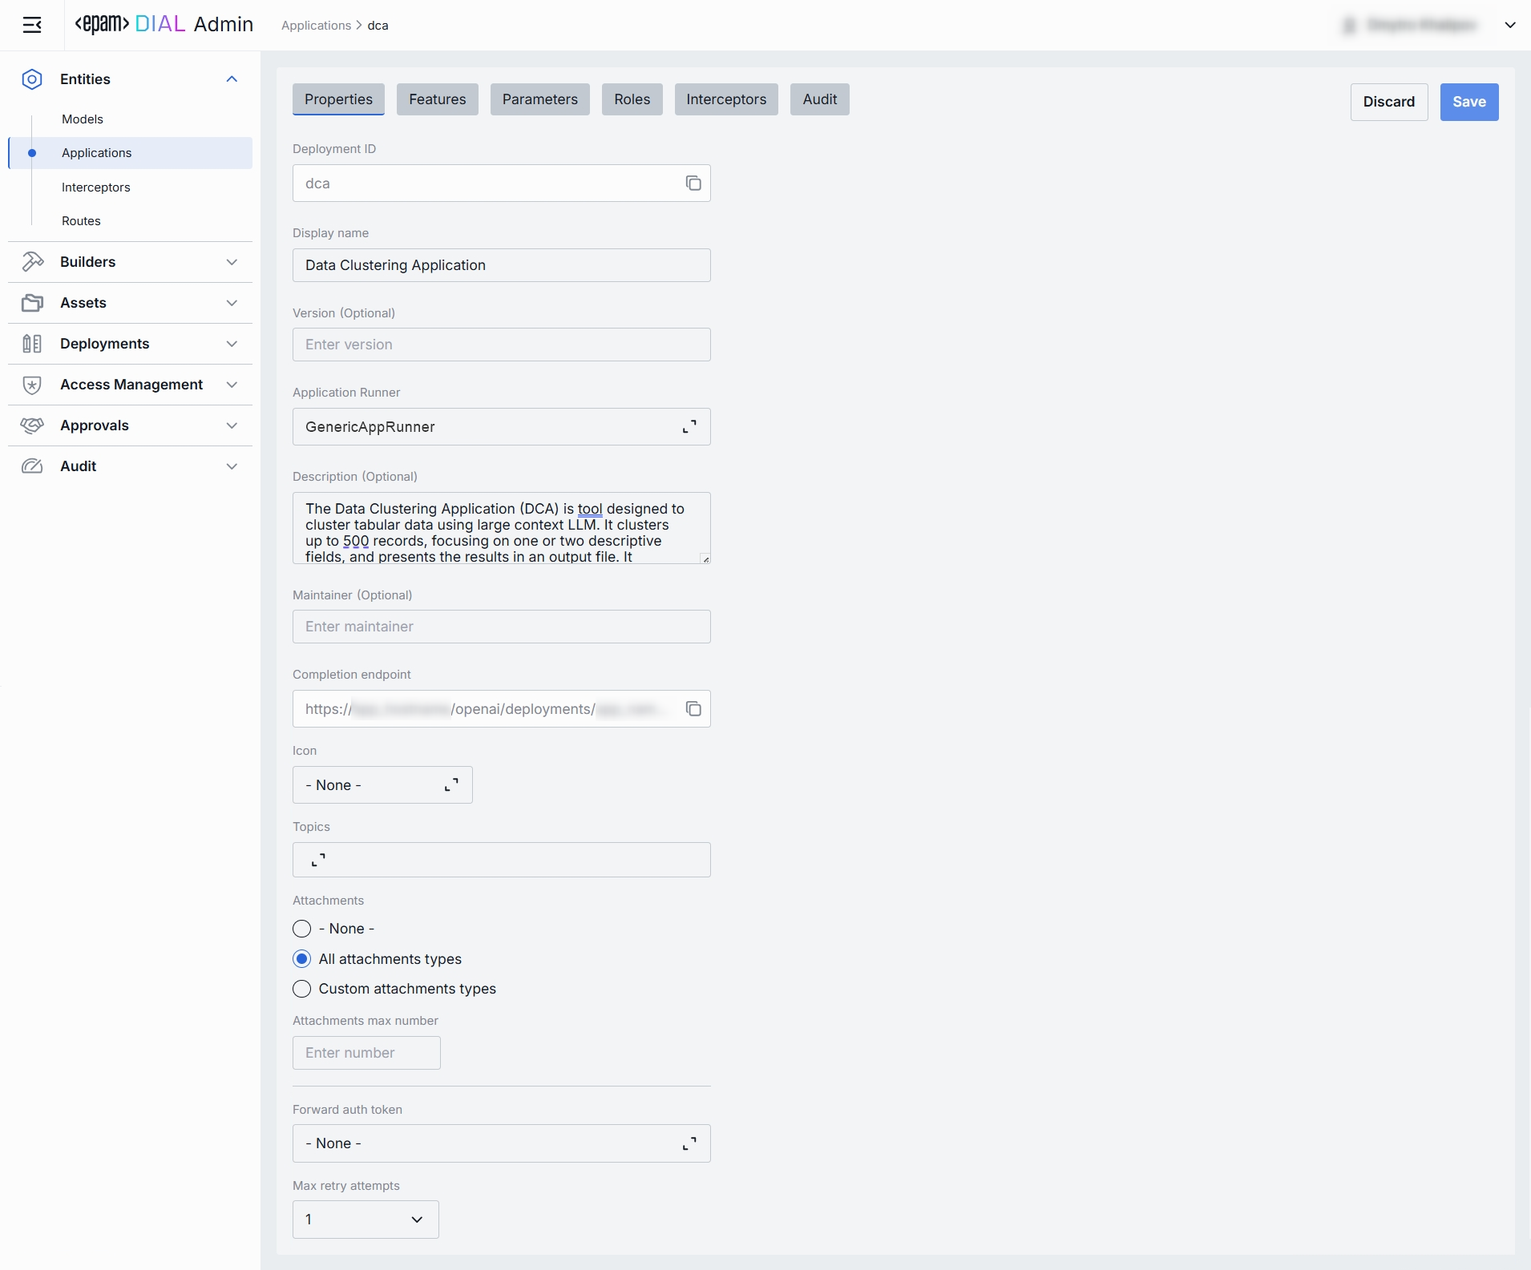
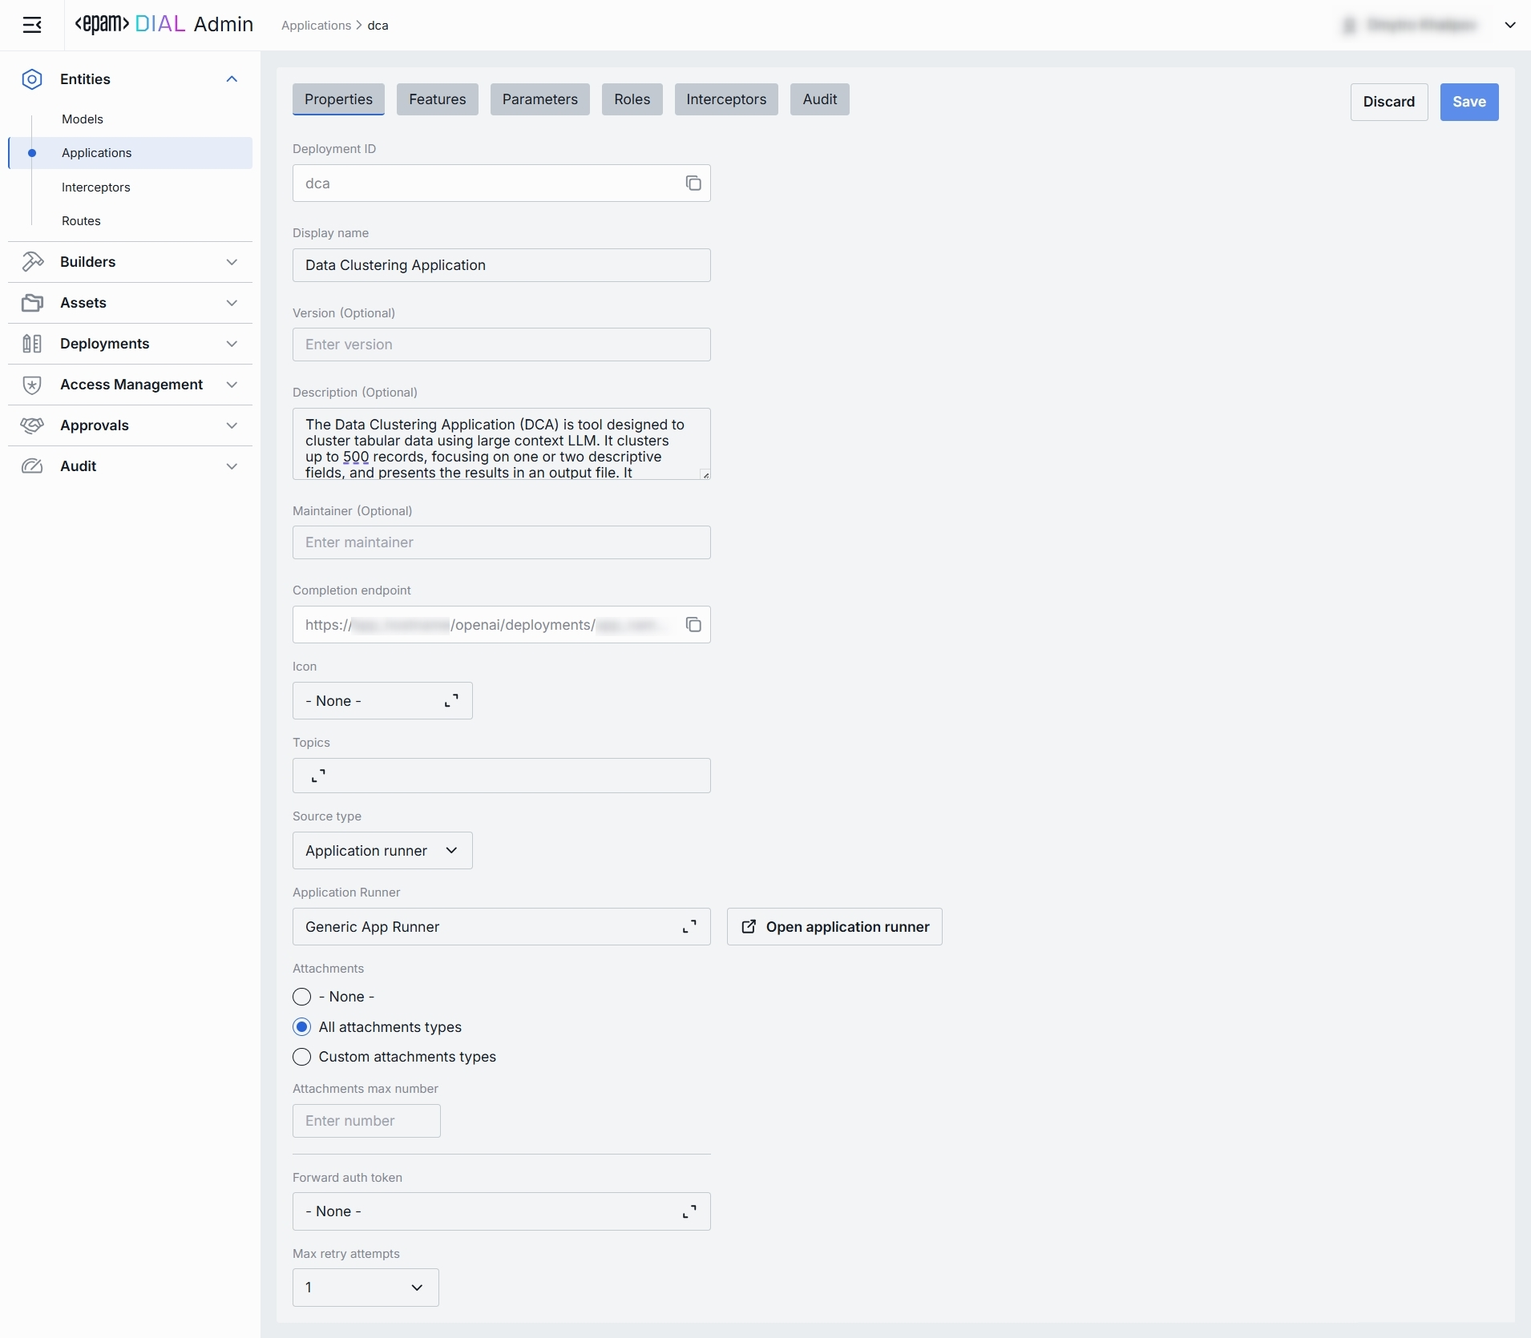
Chore: Source Type and related fields extension in Applications.

diff --git a/docs/tutorials/3.admin/entities-applications.md b/docs/tutorials/3.admin/entities-applications.md
@@ -33,18 +33,19 @@ In Applications, you can see, create and manage applications deployed in your in
 1. Click **+ Create** to invoke the **Create Application** modal.
 2. Define application's parameters
 
-    | Field                  | Required       | Definition & Guidance|
-    |------------------------|-----------------|------------------------------------|
-    | **Deployment ID**      | Yes         | A unique identifier under the `applications` section of DIAL Core’s [dynamic settings](https://github.com/epam/ai-dial-core?tab=readme-ov-file#dynamic-settings) (e.g. support-bot, data-cluster).                    |
-    | **Display Name**       | Yes         | A user-friendly label (e.g. "Customer Support Bot") shown throughout the Admin UI.       |
-    | **Version**            | No              | An optional version tag to track apps releases (e.g. `2024-07-18`, `v1`).     |
-    | **Application Runner** | No              | [Application type schema](/docs/platform/3.core/7.apps.md#schema-rich-applications). Defined in [Application Runners](/docs/tutorials/3.admin/builders-application-runners.md). |
-    | **Description**        | No              | A free-text summary describing the application (e.g. supported inputs, business purpose).                       |
-    | **Endpoint**           | Conditional | The full URL where this Application’s API will be exposed once created. Not needed if Application Runner is selected. Required otherwise.|
+| Field                    | Required    | Definition & Guidance                                                                                                                                                                                                                                                                                               |
+|--------------------------|-------------|---------------------------------------------------------------------------------------------------------------------------------------------------------------------------------------------------------------------------------------------------------------------------------------------------------------------|
+| **Deployment ID**        | Yes         | A unique identifier under the `applications` section of DIAL Core’s [dynamic settings](https://github.com/epam/ai-dial-core?tab=readme-ov-file#dynamic-settings) (e.g. support-bot, data-cluster).                                                                                                                  |
+| **Display Name**         | Yes         | A user-friendly label (e.g. "Customer Support Bot") shown throughout the Admin UI.                                                                                                                                                                                                                                  |
+| **Version**              | No          | An optional version tag to track apps releases (e.g. `2024-07-18`, `v1`).                                                                                                                                                                                                                                           |
+| **Source Type**          | Yes         | Field lets the user choose between “Endpoint” and “Application runner” options.                                                                                                                                                                                                                                     |
+| **Application Runner**   | Conditional | Field is shown and required only if Source Type is "Application runner". Allows to select existing [Application type schema](/docs/platform/3.core/7.apps.md#schema-rich-applications) as the basis for the application. Defined in [Application Runners](/docs/tutorials/3.admin/builders-application-runners.md). |
+| **Completion endpoint**  | Conditional | Field is shown and required only if Source Type is "Endpoint". The full URL where this Application’s API will be exposed once created.                                                                                                                                                                              |
+| **Description**          | No          | A free-text summary describing the application (e.g. supported inputs, business purpose).                                                                                                                                                                                                                           |
 
 3. Once all required fields are filled click **Create**. The dialog closes and the new [application configuration](#application-configuration) screen is opened. This entry will appear immediately in the listing once created. It may take some time for the changes to take effect after saving.
 
-        ![](img/img_12.png)
+![](img/img_12.png)
 
 ## Application Configuration
 
@@ -61,20 +62,23 @@ Once configured, your application is ready to orchestrate models and interceptor
 
 ![ ](img/img_13.png)
 
-| Field                   | Required | Description                                                                                                                                                                                                                                                                                                                                                                                                                                                                                                          |
-|-------------------------|----------|----------------------------------------------------------------------------------------------------------------------------------------------------------------------------------------------------------------------------------------------------------------------------------------------------------------------------------------------------------------------------------------------------------------------------------------------------------------------------------------------------------------------|
-| **Deployment ID**       | Yes      | A unique key under `applications` in DIAL Core’s [dynamic settings](https://github.com/epam/ai-dial-core?tab=readme-ov-file#dynamic-settings) (e.g. data-clustering, support-bot).                                                                                                                                                                                                                                                                                                                                   |
-| **Display Name**        | Yes      | A user-friendly label shown on the UI (e.g. "Data Clustering Application"). Helps end user to identify and select applications.                                                                                                                                                                                                                                                                                                                                                                                      |
-| **Version**             | No       | A version tag for rollout management (e.g. `v1.0`, `2024-07-15`). Use this to publish a new version of an application without disturbing existing users.                                                                                                                                                                                                                                                                                                                                                             |
-| **Application Runner**  | No       | Application type schema. Defined in [Application Runners](/docs/tutorials/3.admin/builders-application-runners.md).                                                                                                                                                                                                                                                                                                                                                                                                  |
-| **Description**         | No       | A free-text summary describing the application (e.g. tooling, supported inputs/outputs, SLAs).                                                                                                                                                                                                                                                                                                                                                                                                                       |
-| **Maintainer**          | No       | Field used to specify the responsible person or team overseeing the app’s configuration.                                                                                                                                                                                                                                                                                                                                                                                                                             |
-| **Completion Endpoint** | Optional | URL where the app is exposed. Clients use this to integrate. Auto-populated if Application Runner is selected. **Required** if Application Runner is not selected.                                                                                                                                                                                                                                                                                                                                                   |
-| **Icon**                | No       | A logo to visually distinguish the app on the UI.                                                                                                                                                                                                                                                                                                                                                                                                                                                                    |
-| **Topics**              | No       | Tags that you can assign to apps (e.g. "finance", "support"). Helps to split apps into categories for better navigation on UI.                                                                                                                                                                                                                                                                                                                                                                                       |
-| **Attachments**         | No       | An option you can use to define the [attachment types](/docs/tutorials/1.developers/3.chat/0.chat-objects.md#attachments) (images, files) this app can have:  <br />**Available values**:<br /> **None** – attachments are not allowed.  <br /> **All** – unrestricted types. Optionally specify max number of attachments. <br /> **Custom** – enter specific [MIME types](https://developer.mozilla.org/en-US/docs/Web/HTTP/Basics_of_HTTP/MIME_types/Common_types). Optionally specify max number of attachments. |
-| **Forward auth token**  | No       | Select a downstream auth token to forward from the user’s session (for multi-tenant downstream).                                                                                                                                                                                                                                                                                                                                                                                                                     |
-| **Max retry attempts**  | No       | Number of times DIAL Core will [retry](/docs/platform/3.core/5.load-balancer.md#fallbacks) a failed run (due to timeouts or 5xx errors).                                                                                                                                                                                                                                                                                                                                                                             |
+| Field                   | Required     | Description                                                                                                                                                                                                                                                                                                                                                                                                                                                                                                          |
+|-------------------------|--------------|----------------------------------------------------------------------------------------------------------------------------------------------------------------------------------------------------------------------------------------------------------------------------------------------------------------------------------------------------------------------------------------------------------------------------------------------------------------------------------------------------------------------|
+| **Deployment ID**       | Yes          | A unique key under `applications` in DIAL Core’s [dynamic settings](https://github.com/epam/ai-dial-core?tab=readme-ov-file#dynamic-settings) (e.g. data-clustering, support-bot).                                                                                                                                                                                                                                                                                                                                   |
+| **Display Name**        | Yes          | A user-friendly label shown on the UI (e.g. "Data Clustering Application"). Helps end user to identify and select applications.                                                                                                                                                                                                                                                                                                                                                                                      |
+| **Version**             | No           | A version tag for rollout management (e.g. `v1.0`, `2024-07-15`). Use this to publish a new version of an application without disturbing existing users.                                                                                                                                                                                                                                                                                                                                                             |
+| **Description**         | No           | A free-text summary describing the application (e.g. tooling, supported inputs/outputs, SLAs).                                                                                                                                                                                                                                                                                                                                                                                                                       |
+| **Maintainer**          | No           | Field used to specify the responsible person or team overseeing the app’s configuration.                                                                                                                                                                                                                                                                                                                                                                                                                             |
+| **Icon**                | No           | A logo to visually distinguish the app on the UI.                                                                                                                                                                                                                                                                                                                                                                                                                                                                    |
+| **Topics**              | No           | Tags that you can assign to apps (e.g. "finance", "support"). Helps to split apps into categories for better navigation on UI.                                                                                                                                                                                                                                                                                                                                                                                       |
+| **Source Type**         | Yes          | Field lets the user choose between “Endpoint” and “Application runner” options.                                                                                                                                                                                                                                                                                                                                                                                                                                      |
+| **Application Runner**  | Conditional  | Field is shown and required only if Source Type is "Application runner". Allows to select existing [Application type schema](/docs/platform/3.core/7.apps.md#schema-rich-applications) as the basis for the application. Defined in [Application Runners](/docs/tutorials/3.admin/builders-application-runners.md).                                                                                                                                                                                                  |
+| **Completion Endpoint** | Conditional  | Field is editable and required only if Source Type is "Endpoint". Read-only if Source Type is "Application runner" otherwise. The full URL where this Application’s API will be exposed once created.                                                                                                                                                                                                                                                                                                                |
+| **Viewer URL**          | Conditional  | Only shown if Source Type is "Endpoint". An optional field that contains the URL of the application's custom UI for viewing purposes.                                                                                                                                                                                                                                                                                                                                                                                |
+| **Editor URL**          | Conditional  | Only shown if Source Type is "Endpoint". An optional field that contains the URL of the application's custom builder UI for editing purposes.                                                                                                                                                                                                                                                                                                                                                                        |
+| **Attachments**         | No           | An option you can use to define the [attachment types](/docs/tutorials/1.developers/3.chat/0.chat-objects.md#attachments) (images, files) this app can have:  <br />**Available values**:<br /> **None** – attachments are not allowed.  <br /> **All** – unrestricted types. Optionally specify max number of attachments. <br /> **Custom** – enter specific [MIME types](https://developer.mozilla.org/en-US/docs/Web/HTTP/Basics_of_HTTP/MIME_types/Common_types). Optionally specify max number of attachments. |
+| **Forward auth token**  | No           | Select a downstream auth token to forward from the user’s session (for multi-tenant downstream).                                                                                                                                                                                                                                                                                                                                                                                                                     |
+| **Max retry attempts**  | No           | Number of times DIAL Core will [retry](/docs/platform/3.core/5.load-balancer.md#fallbacks) a failed run (due to timeouts or 5xx errors).                                                                                                                                                                                                                                                                                                                                                                             |
  
 ### Features
 
